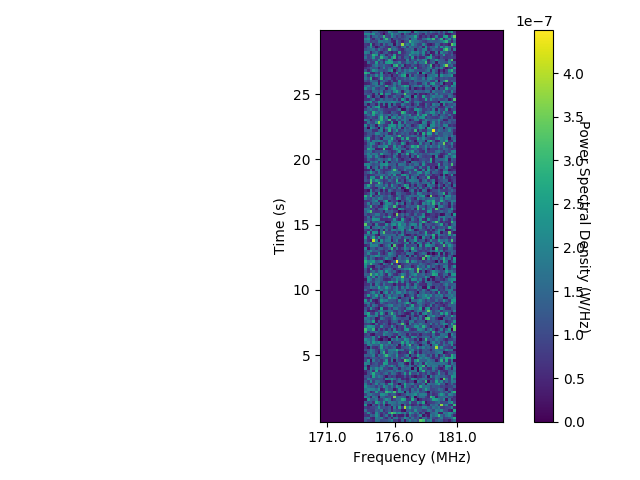
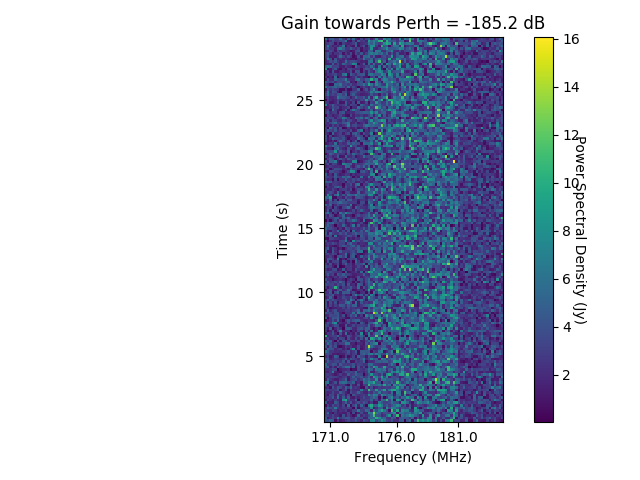
Added noise

diff --git a/FM_station/generate_DTV_interference.py b/FM_station/generate_DTV_interference.py
@@ -21,17 +21,45 @@ import numpy
 
 # ------------  PARAMETERS
 
-def generate_DTV(frequency, times, power=50e3):
+def calculate_noise_visibility(bandwidth, int_time, diameter, t_sys, eta):
+    """Determine noise rms per visibility
+    :returns: Sigma [nrows]
+    """
+    
+    k_b = 1.38064852e-23
+    area = numpy.pi * (diameter / 2.) ** 2
+    bt = bandwidth * int_time
+    sigma = (numpy.sqrt(2) * k_b * t_sys) / (area * eta * (numpy.sqrt(bt)))
+    sigma *= 1e26
+    return sigma
+
+def generate_DTV(frequency, times, power=50e3, gain=1e-9):
     nchan = len(frequency)
     ntimes = len(times)
     shape = [ntimes, nchan]
     sshape = [ntimes, nchan//2]
     bchan = nchan//4
     echan = 3*nchan//4
-    amp = numpy.sqrt(2.0) * power / (max(frequency)-min(frequency))
+    amp = 1e26 * gain * numpy.sqrt(2.0) * power / (max(frequency)-min(frequency))
+    print("RMS signal per sample = %g Jy" % amp)
     signal = numpy.zeros(shape, dtype='complex')
     signal[:, bchan:echan] +=  numpy.random.normal(0.0, amp, sshape) + 1j * numpy.random.normal(0.0, amp, sshape)
     return signal
+
+
+def add_noise(waterfall, bandwidth, int_time, diameter, t_sys, eta):
+    """Determine noise rms per visibility
+    :returns: Sigma [nrows]
+    """
+    k_b = 1.38064852e-23
+    area = numpy.pi * (diameter / 2.) ** 2
+    bt = bandwidth * int_time
+    sigma = 1e26 * (numpy.sqrt(2) * k_b * t_sys) / (area * eta * (numpy.sqrt(bt)))
+    print("RMS noise per sample = %g Watts/m^2/Hz" % sigma)
+    sshape = waterfall.shape
+    waterfall += numpy.random.normal(0.0, sigma, sshape) + 1j * numpy.random.normal(0.0, sigma, sshape)
+    return waterfall
+
 
 if __name__ == "__main__":
     sample_freq = 2e5
@@ -40,7 +68,10 @@ if __name__ == "__main__":
     tscan = 0.2
     times = numpy.arange(0.0, 30.0, 0.2)
     ntimes = len(times)
-    waterfall = generate_DTV(frequency, times, 1.0)
+    gain = 3e-19
+    waterfall = generate_DTV(frequency, times, 1.0, gain)
+    
+    waterfall = add_noise(waterfall, bandwidth=sample_freq, int_time=tscan, diameter=35.0, t_sys=200, eta=0.9)
     
     plt.clf()
     plt.imshow(numpy.abs(waterfall), origin='bottom')
@@ -55,7 +86,8 @@ if __name__ == "__main__":
     plt.yticks(itticks, tticks)
     
     cbar = plt.colorbar()
-    cbar.set_label('Power Spectral Density (W/Hz)', rotation=270)
+    plt.title(("Gain towards Perth = %.1f dB" % (10*numpy.log10(gain))))
+    cbar.set_label('Power Spectral Density (Jy)', rotation=270)
     plt.tight_layout()
     plt.savefig("DTV_Waterfall.png")
     plt.show()
